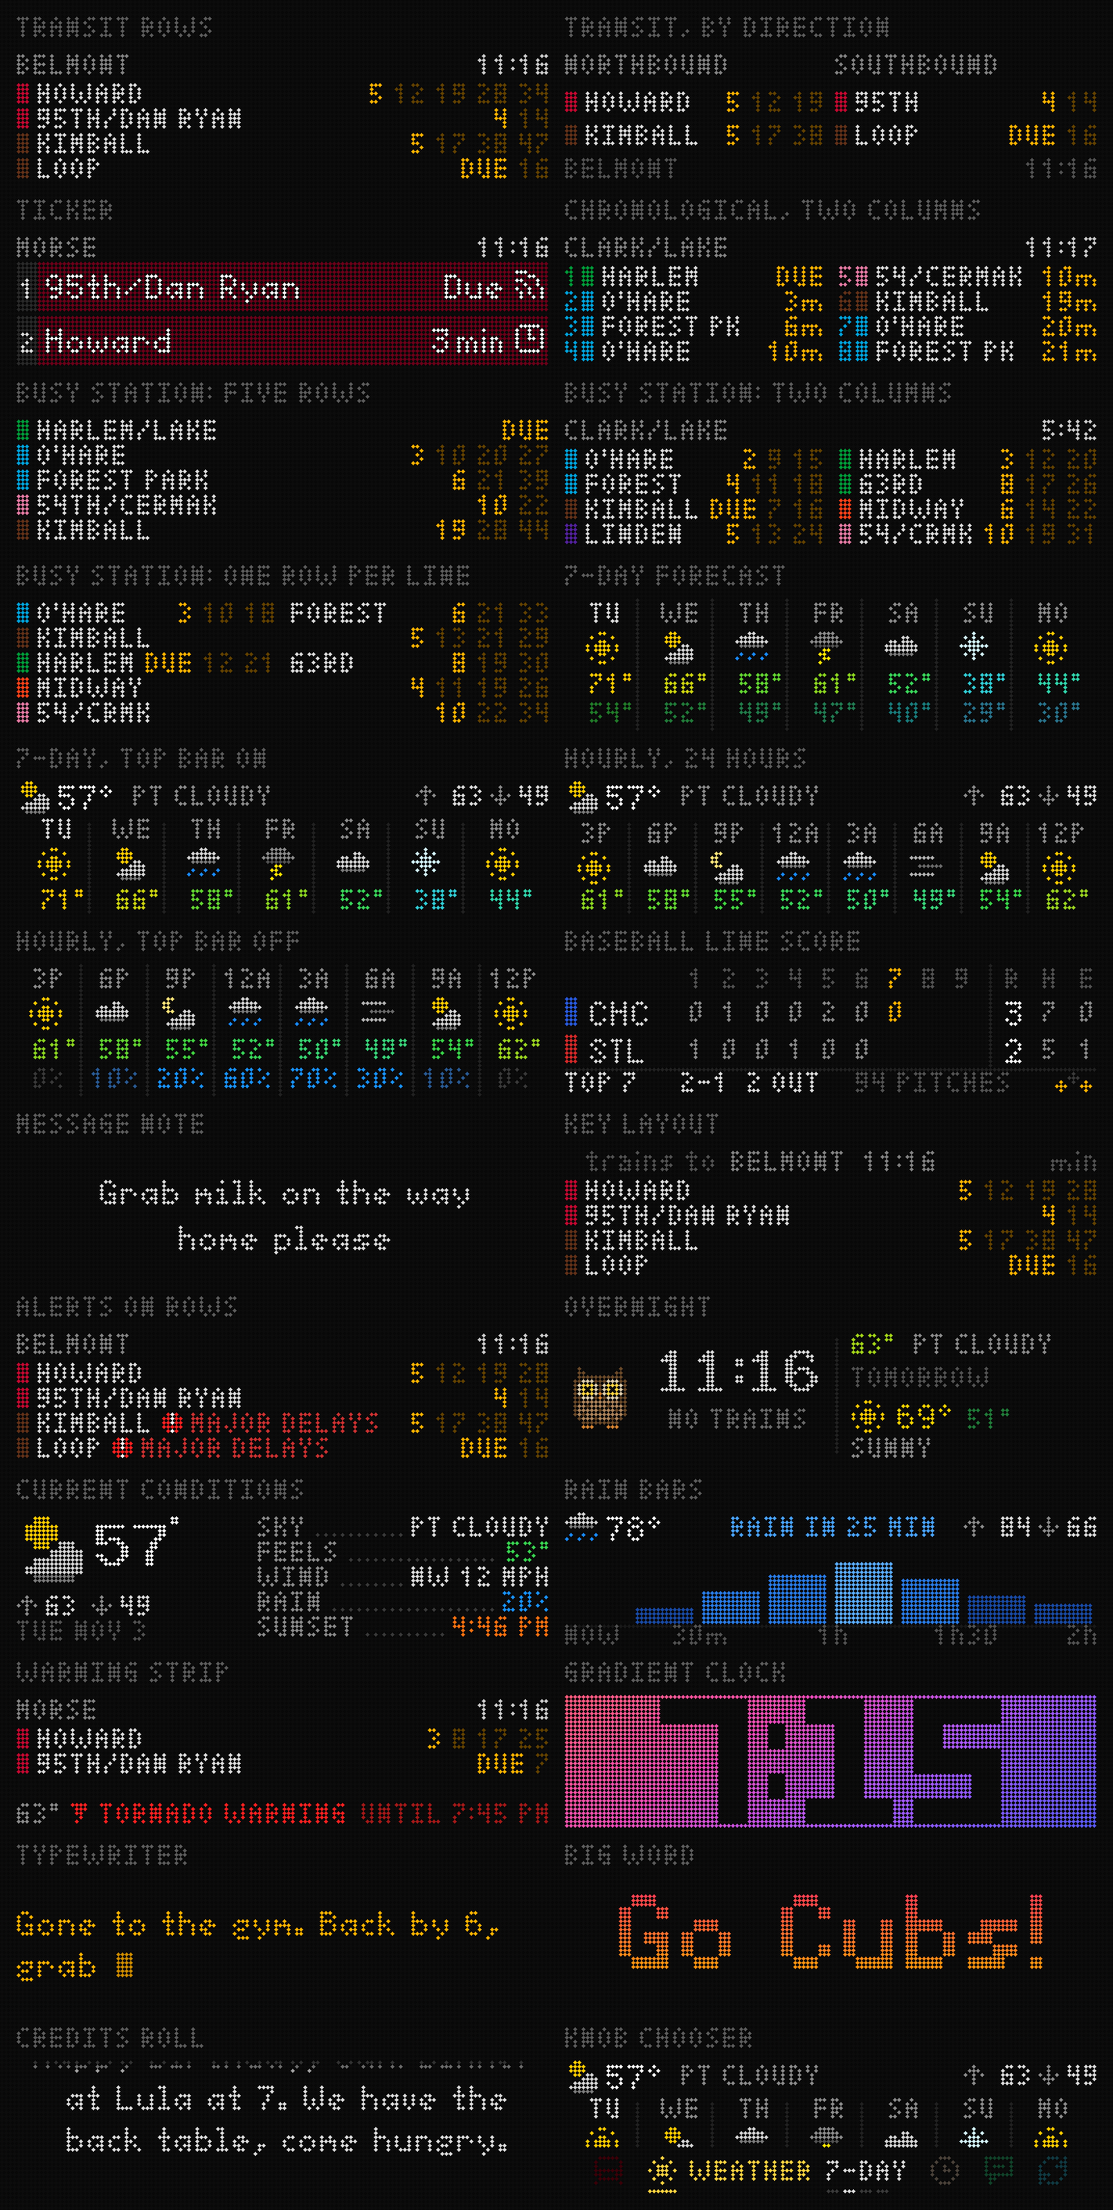
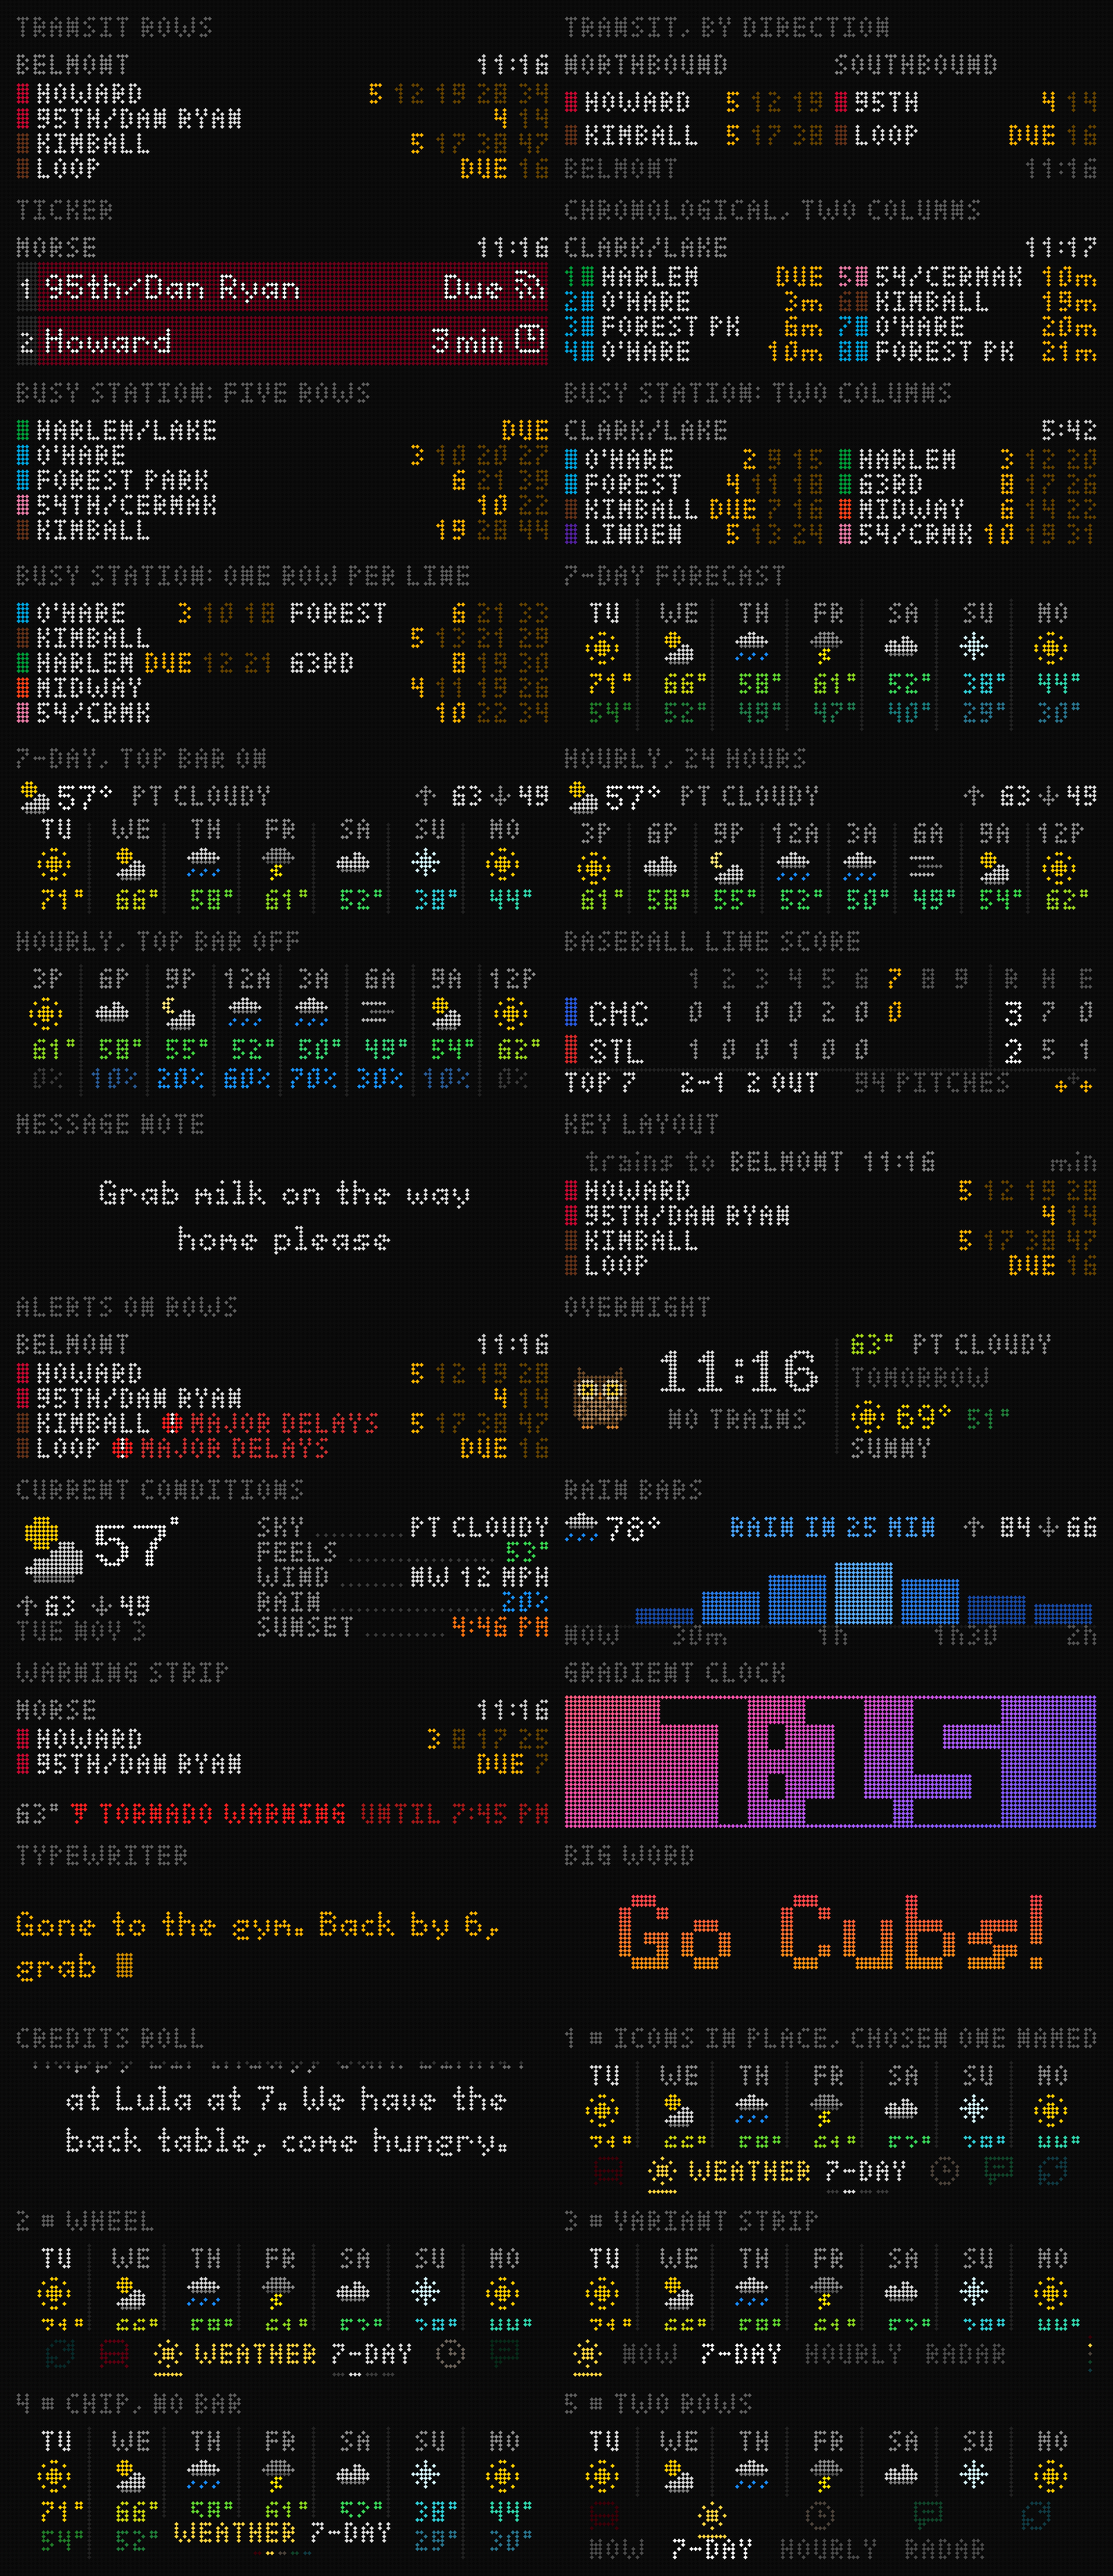
Five knob chooser bars for 128x32
Icons in place with the chosen one named, a centered wheel, a variant
strip, a chip with no bar, and two rows (icons and variants).

Claude-Session: https://claude.ai/code/session_01G1nRWyZ7ESNyz7GfjXtnvu

diff --git a/scripts/mock-128-screens.js b/scripts/mock-128-screens.js
@@ -450,7 +450,7 @@ const PEEK_ICONS = {
 };
 const PEEK_COL = { transit: LINE.RD, weather: '#ffd040', clock: '#f0e2c8', announce: '#40e090', cycle: '#3fd0e8' };
 function chooser() {
-  const f = new Frame(W, H), view = sevenDay({ top: true });
+  const f = new Frame(W, H), view = sevenDay();
   for (let y = 0; y < 21; y++) for (let x = 0; x < W; x++) f.set(x, y, view.get(x, y));
   const ring = ['transit', 'weather', 'clock', 'announce', 'cycle'], k = 1, vars = ['NOW', '7-DAY', 'HOURLY', 'RADAR'], vi = 1;
   const label = 'WEATHER', vname = vars[vi];
@@ -468,6 +468,78 @@ function chooser() {
     vars.forEach((_, j) => f.fill(vx + j * 4, 31, 3, 1, j === vi ? C.label : C.indicator));
     x += chosenW + 6;
   });
+  return f;
+}
+
+// ======================= dial (knob) chooser: five bars =======================
+// Same interaction as 64 (twist = category, press = next variant, rest 1 s
+// commits); the chosen view fills the panel and a bar names what's chosen.
+// Shown with Weather chosen, on its 7-DAY variant.
+const RING = ['transit', 'weather', 'clock', 'announce', 'cycle'];
+const RING_NAME = { transit: 'TRANSIT', weather: 'WEATHER', clock: 'CLOCK', announce: 'ANNOUNCE', cycle: 'CYCLE' };
+const VARS = { transit: ['ROWS', 'TICKER'], weather: ['NOW', '7-DAY', 'HOURLY', 'RADAR'], clock: ['SKYLINE', '70S', 'ANALOG', 'MAP', 'GRADIENT', 'WORDS'], announce: [], cycle: [] };
+const DK = 1, DV = 1;
+function peekBase(top) {
+  const f = new Frame(W, H), view = sevenDay();
+  for (let y = 0; y < H; y++) for (let x = 0; x < W; x++) f.set(x, y, view.get(x, y));
+  f.fill(0, top, W, H - top, '#000000');
+  return f;
+}
+// 1. Icons in place, the chosen one named with its variant (the first pass).
+function dialNamed() { return chooser(); }
+// 2. Wheel: the chosen category stays centered, named; neighbors' icons either side, fading, wrapping.
+function dialWheel() {
+  const f = peekBase(21), cat = RING[DK], col = PEEK_COL[cat], name = RING_NAME[cat], vname = VARS[cat][DV];
+  const gw = 7 + 3 + measure('small', name) + 4 + measure('small', vname), gx = Math.floor((W - gw) / 2);
+  glyph(f, PEEK_ICONS[cat], gx, 23, col);
+  f.fill(gx, 31, 7, 1, col);
+  const vx = f.text('small', name, gx + 10, 29, col) + 3;
+  f.text('small', vname, vx, 29, C.label);
+  VARS[cat].forEach((_, j) => f.fill(vx + j * 4, 31, 3, 1, j === DV ? C.label : C.indicator));
+  const n = RING.length;
+  for (const d of [-2, -1, 1, 2]) {
+    const c2 = RING[((DK + d) % n + n) % n], k = Math.abs(d) === 1 ? 0.45 : 0.2;
+    const x = d < 0 ? gx - 6 - 7 + (d + 1) * 13 : gx + gw + 6 + (d - 1) * 13;
+    glyph(f, PEEK_ICONS[c2], x, 23, scale(PEEK_COL[c2], k));
+  }
+  return f;
+}
+// 3. Variant strip: the chosen category's icon, then its variants as words (chosen white, rest dim);
+// where the category sits on the ring as a column of dots at the right edge.
+function dialStrip() {
+  const f = peekBase(21), cat = RING[DK], col = PEEK_COL[cat];
+  glyph(f, PEEK_ICONS[cat], 2, 23, col);
+  f.fill(2, 31, 7, 1, col);
+  let x = 14;
+  VARS[cat].forEach((v, j) => { x = f.text('small', v, x, 29, j === DV ? C.white : '#4a4a4a') + 5; });
+  RING.forEach((c2, i) => f.fill(126, 22 + i * 2, 1, 1, i === DK ? PEEK_COL[c2] : scale(PEEK_COL[c2], 0.3)));
+  return f;
+}
+// 4. Chip: no bar. A black chip at the bottom center with the name and variant, and
+// one dot per category under it in its color (the chosen one full, the rest dim).
+function dialChip() {
+  const f = new Frame(W, H), view = sevenDay();
+  for (let y = 0; y < H; y++) for (let x = 0; x < W; x++) f.set(x, y, view.get(x, y));
+  const cat = RING[DK], col = PEEK_COL[cat], name = RING_NAME[cat], vname = VARS[cat][DV];
+  const tw = measure('small', name) + 4 + measure('small', vname), cx = Math.floor((W - tw) / 2);
+  f.fill(cx - 3, 22, tw + 6, 10, '#000000');
+  const vx = f.text('small', name, cx, 28, col) + 3;
+  f.text('small', vname, vx, 28, C.label);
+  const dx = Math.floor(W / 2 - (RING.length * 3 - 1) / 2);
+  RING.forEach((c2, i) => f.fill(dx + i * 3, 30, 2, 1, i === DK ? PEEK_COL[c2] : scale(PEEK_COL[c2], 0.3)));
+  return f;
+}
+// 5. Two rows: every category's icon spread across the width (the chosen one underlined),
+// and under them the chosen category's variants as words. The bar takes rows 17-31.
+function dialTwoRows() {
+  const f = peekBase(17);
+  RING.forEach((c2, i) => {
+    const x = 6 + i * 26;
+    glyph(f, PEEK_ICONS[c2], x, 18, i === DK ? PEEK_COL[c2] : scale(PEEK_COL[c2], 0.3));
+    if (i === DK) f.fill(x, 26, 7, 1, PEEK_COL[c2]);
+  });
+  let x = 6;
+  VARS[RING[DK]].forEach((v, j) => { x = f.text('small', v, x, 32, j === DV ? C.white : '#4a4a4a') + 6; });
   return f;
 }
 
@@ -496,7 +568,11 @@ async function main() {
     ['more', 'typewriter', 'Typewriter', 'About 21 characters a line instead of 10, so most notes fit in two lines. Shown mid-typing.', '', typewriter()],
     ['more', 'big-word', 'Big word', 'At 3x instead of 2x: 21 px letters, up to about 7 characters; longer words drop to 2x (about 10).', '', bigWord()],
     ['more', 'credits', 'Credits roll', 'Wider lines mean fewer of them; the roll and its fade at the edges stay the same.', 'Mid-roll.', credits()],
-    ['more', 'chooser', 'Knob chooser', 'The peek chooser with room to name things: the chosen category and its variant are spelled out beside its icon, with one pip per variant under the name.', 'The view on top is the 7-day with the top bar.', chooser()],
+    ['dial', 'dial-1-named', '1 · Icons in place, chosen one named', 'The 64 bar with room to spare: every category\'s icon stays put, the chosen one adds its name and variant, with one pip per variant under the variant name.', 'The first pass from the more-screens round.', dialNamed()],
+    ['dial', 'dial-2-wheel', '2 · Wheel', 'The chosen category stays centered, named, with its neighbors\' icons either side, fading with distance and wrapping; twisting slides the strip under a fixed center.', '', dialWheel()],
+    ['dial', 'dial-3-strip', '3 · Variant strip', 'The bar shows what a press does: the chosen category\'s icon, then all its variants as words, the chosen one white. Where the category sits on the ring is a column of five dots at the right edge.', 'Twisting swaps the whole strip; Announce and Cycle show the icon alone. Clock\'s six faces only fit with short names (SKY 70S ANALOG MAP GRAD WORDS).', dialStrip()],
+    ['dial', 'dial-4-chip', '4 · Chip, no bar', 'Most of the view stays visible: a black chip at the bottom center names the category and variant, with one dot per category under it in its color.', 'Same idea as the radar\'s time chip.', dialChip()],
+    ['dial', 'dial-5-tworows', '5 · Two rows', 'Every category\'s icon spread across the width, the chosen one underlined, and under them the chosen category\'s variants as words.', 'The bar takes rows 17–31, half the panel. Clock\'s six faces need short names to fit, as in 3.', dialTwoRows()],
   ];
 
   const q5 = (v) => v & 0xf8;

diff --git a/docs/board/wide-spec.md b/docs/board/wide-spec.md
@@ -133,9 +133,17 @@ Most of the skyline code already takes its width from a variable, and the server
 - **Line score (first pass):** innings 1–9, R H E, then the inning, count, outs, pitch count and bases on the bottom row. The innings are in the linescore the server already fetches; the pitch count isn't.
 - The classic, logo and band layouts and the other game states aren't planned yet.
 
-## 9. Knob chooser (first pass)
+## 9. Knob chooser (open: five bars)
 
-The peek chooser as at 64 (the chosen view on rows 0–20, the bar on 21–31), with room to name things: the chosen category's icon, its name in its color and the variant name (`WEATHER 7-DAY`), with one pip per variant under the variant name. The other categories stay icons only.
+The interaction stays as at 64 (twist = category, press = next variant, hold and turn = step variants, rest 1 s commits; the chosen view fills the panel while choosing). What changes is the bar, which has room to name things. Five mocked (`dial-*.png`, Weather chosen on 7-DAY):
+
+1. **Icons in place, chosen one named:** the 64 bar on rows 21–31, every icon where it is, the chosen one adding its name in its color, the variant name, and one pip per variant under the variant name.
+2. **Wheel:** the chosen category fixed at the center, named; neighbors' icons either side, fading with distance and wrapping. Twisting slides the strip under the center.
+3. **Variant strip:** the chosen category's icon, then all its variants as words (chosen white, the rest dim): it shows what a press will do. The ring position as five dots at the right edge. Clock's six faces need short names to fit (`SKY 70S ANALOG MAP GRAD WORDS`).
+4. **Chip, no bar:** a black chip at the bottom center with the name and variant, one dot per category under it. Most of the view stays visible (the same idea as the radar's chips).
+5. **Two rows:** every category's icon spread across the width, the chosen one underlined, and the chosen category's variants as words under them. The bar takes rows 17–31.
+
+In 1–3 and 5 the bar hides the bottom of the view (here the forecast's temperatures), as at 64.
 
 ---
 
@@ -144,6 +152,7 @@ The peek chooser as at 64 (the chosen view on rows 0–20, the bar on 21–31), 
 - Busy-station layout: confirm the fitting order in §3, or pick one layout.
 - Skyline: panorama or big clock; building art.
 - Direction labels for the split at Loop and branch stations.
+- Knob chooser: pick a bar in §9.
 - Baseball beyond the line score.
 
 ## 11. What the software would need (not started)
